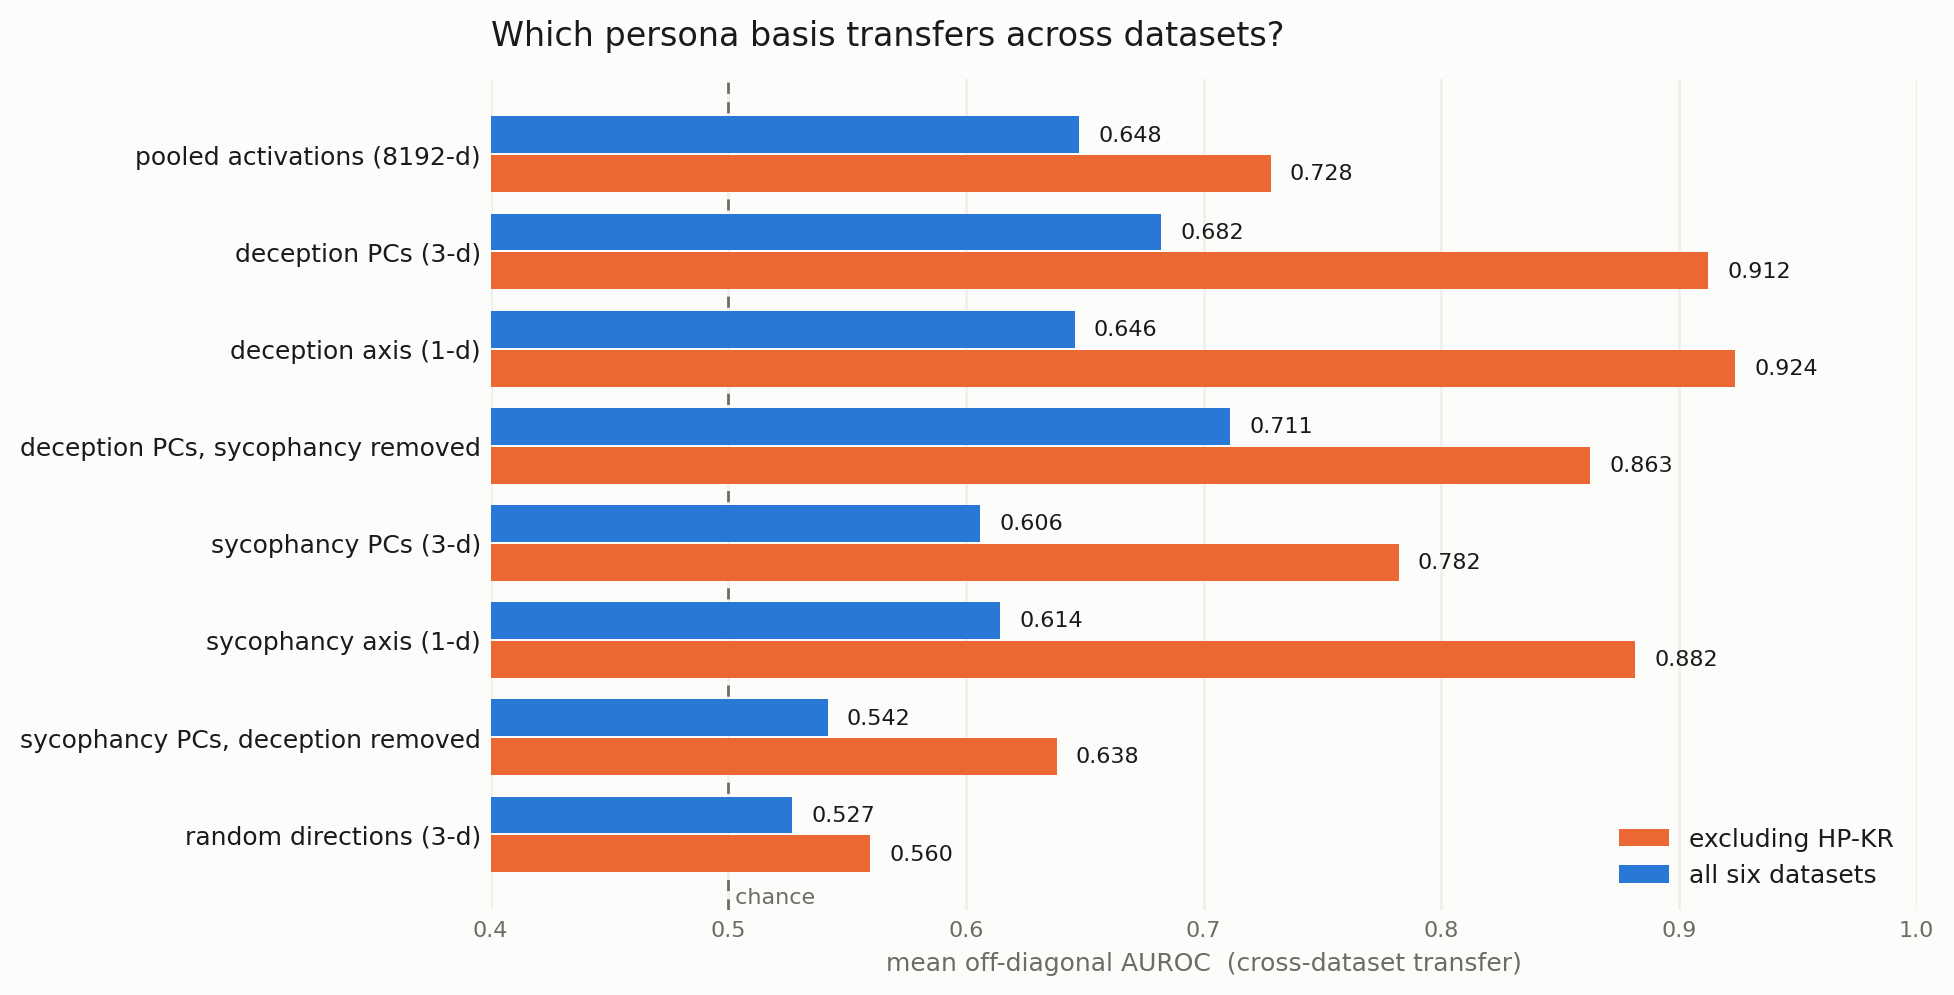
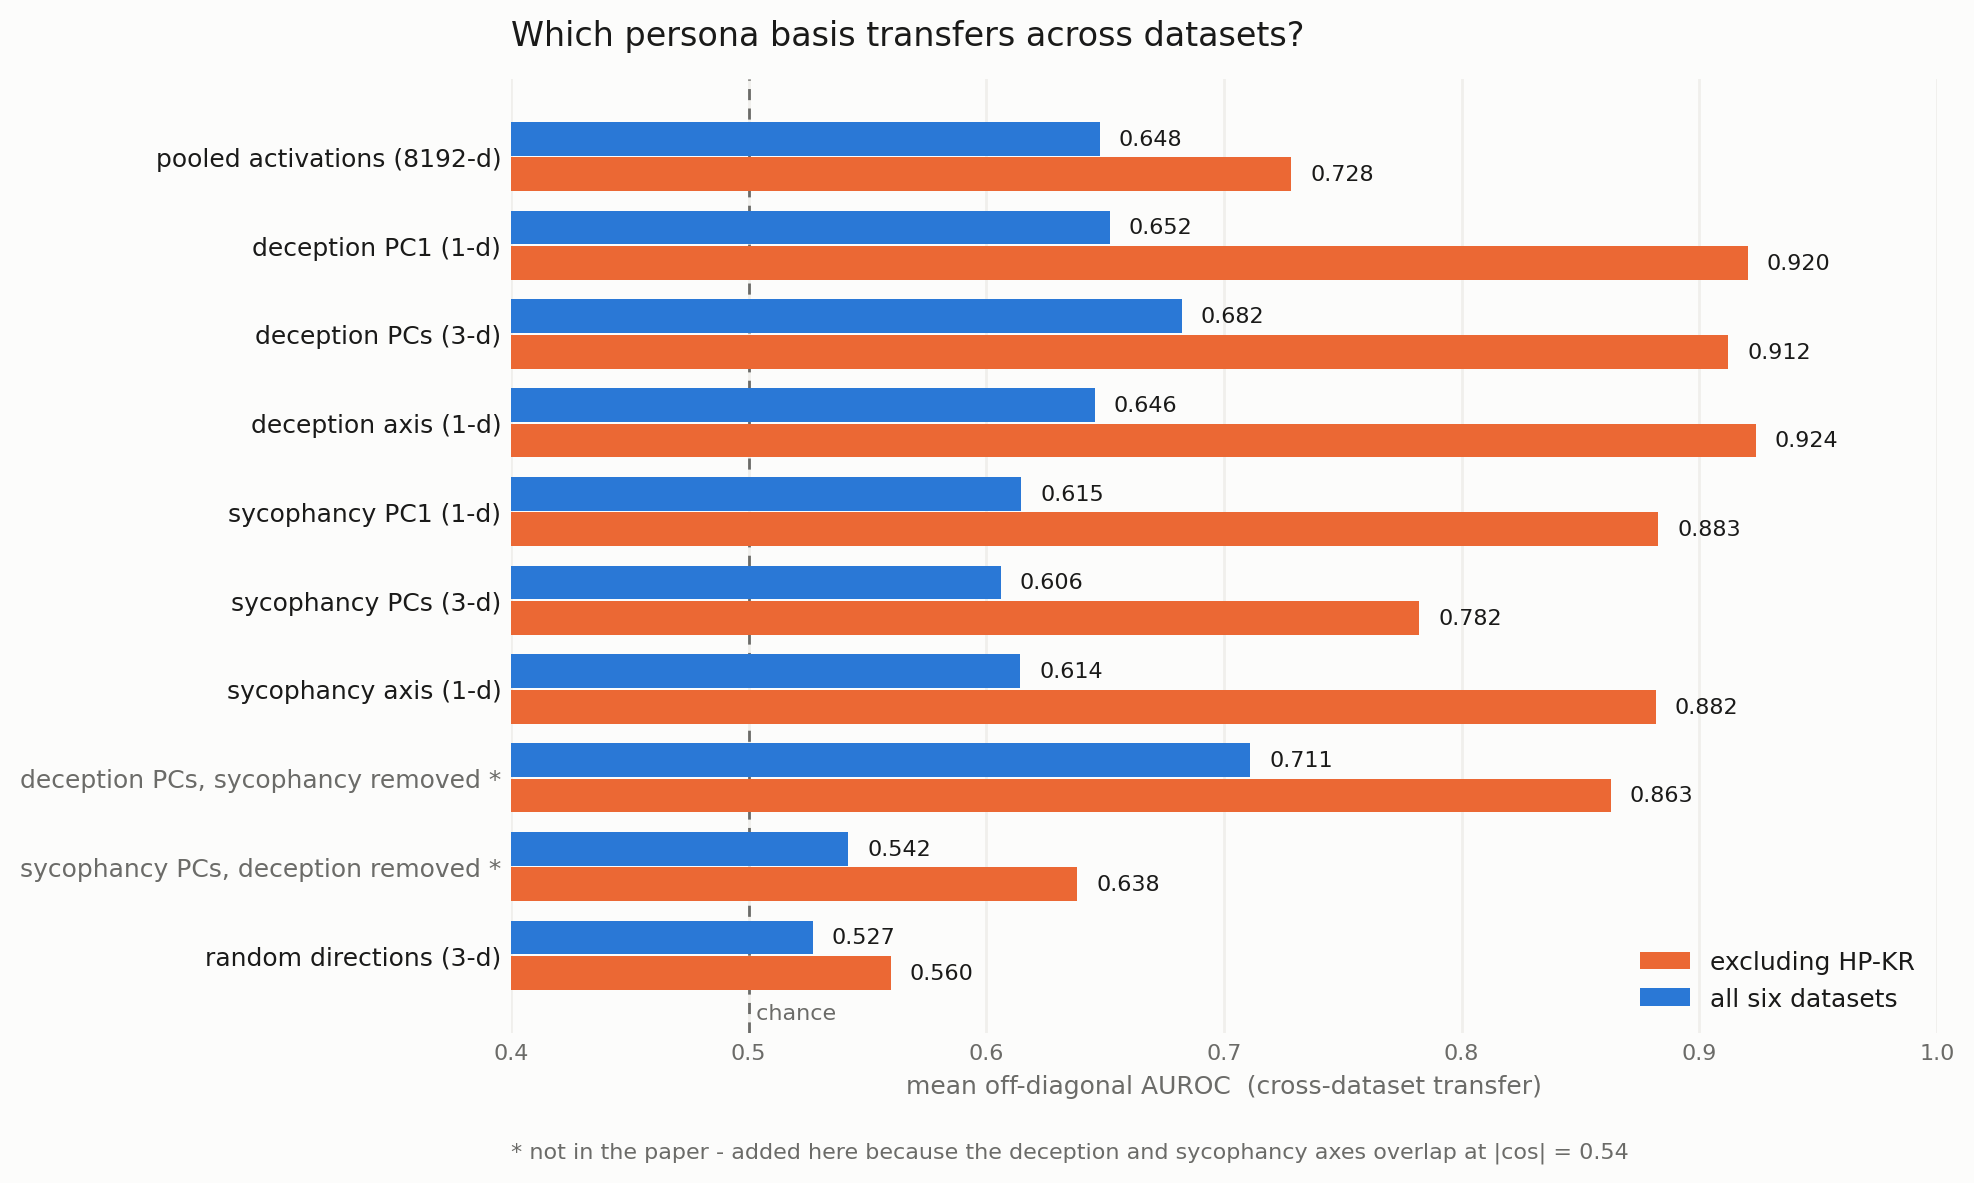
Run the sycophancy arm without orthogonalization, and record paper fidelity
Read arXiv 2605.09391 properly (it had never been fetched -- the method was
taken from an excerpt). Two corrections follow.

The paper does not orthogonalize. Its "residualization" is Eq. 2 alone,
centring by subtracting the mean across personas, and its only use of
"orthogonal" is the PCA property that higher PCs capture variation orthogonal
to lower ones. The *_orth arms are this repo's addition and are now labelled
as such in the summary and demoted in the figure.

The paper also never crosses bases between behaviours: Figure 4 is the
deception axis on deception datasets, Figure 5 the sycophancy axis on
sycophancy datasets. The cross-behaviour run is a control designed here, not
a replication.

Adds the feature sets the paper's figures actually use, which were missing:
PC1 as a probe feature (Fig. 4 reports PC1, not the contrastive axis) for both
behaviours. Deception PC1 reaches 0.9205 off-diagonal excluding HP-KR, just
behind the axis at 0.9237.

Headline without any orthogonalization: persona directions do transfer across
behaviours. Sycophancy PC1, never shown a deception label, reaches 0.883
off-diagonal excluding HP-KR against the 8192-d baseline's 0.728 and random's
0.560. But the matched basis wins every comparison -- deception beats
sycophancy at PC1 (0.652/0.615), k=3 (0.682/0.606) and axis (0.646/0.614).

Other deviations now recorded: the paper uses Llama 3.2 3B at layer 14 over
its own 10 datasets, against Llama-70B layer 20 over Liars' Bench here. Model
[…]

diff --git a/src/probes/deception-detection/deception_detection/scripts/persona_ood_figures.py b/src/probes/deception-detection/deception_detection/scripts/persona_ood_figures.py
@@ -131,14 +131,20 @@ SERIES = ("#2a78d6", "#eb6834")
 # ordered so the comparison reads: reference, deception arms, sycophancy arms, control
 VARIANT_LABELS = [
     ("baseline", "pooled activations (8192-d)"),
+    ("pc1", "deception PC1 (1-d)"),
     ("pc3", "deception PCs (3-d)"),
     ("axis1", "deception axis (1-d)"),
-    ("dec3_orth", "deception PCs, sycophancy removed"),
+    ("syc_pc1", "sycophancy PC1 (1-d)"),
     ("syc3", "sycophancy PCs (3-d)"),
     ("syc_axis1", "sycophancy axis (1-d)"),
-    ("syc3_orth", "sycophancy PCs, deception removed"),
+    ("dec3_orth", "deception PCs, sycophancy removed *"),
+    ("syc3_orth", "sycophancy PCs, deception removed *"),
     ("random3", "random directions (3-d)"),
 ]
+
+# the two starred rows are not in the paper; it never orthogonalises one behaviour's axis out
+# of another's basis, and never applies one behaviour's basis to the other's datasets
+NOT_IN_PAPER = {"dec3_orth", "syc3_orth"}
 
 
 def variants(out_dir: str | Path = OUT_DIR) -> None:
@@ -153,7 +159,7 @@ def variants(out_dir: str | Path = OUT_DIR) -> None:
     y = np.arange(len(rows))
     height = 0.38
     gap = 0.02  # 2px-equivalent surface gap between adjacent fills
-    fig, ax = plt.subplots(figsize=(9.2, 5.4), facecolor=SURFACE)
+    fig, ax = plt.subplots(figsize=(9.2, 6.2), facecolor=SURFACE)
     ax.set_facecolor(SURFACE)
 
     for offset, values, colour, name in (
@@ -169,6 +175,9 @@ def variants(out_dir: str | Path = OUT_DIR) -> None:
     ax.text(0.5, len(rows) - 0.35, " chance", fontsize=8, color=INK_MUTED, va="center")
 
     ax.set_yticks(y, labels, fontsize=9, color=INK)
+    for tick, (_, key) in zip(ax.get_yticklabels(), rows, strict=True):
+        if key in NOT_IN_PAPER:
+            tick.set_color(INK_MUTED)  # visually demote what the paper does not do
     ax.invert_yaxis()
     ax.set_xlim(0.4, 1.0)
     ax.set_xlabel("mean off-diagonal AUROC  (cross-dataset transfer)", fontsize=9, color=INK_MUTED)
@@ -182,6 +191,8 @@ def variants(out_dir: str | Path = OUT_DIR) -> None:
     ax.legend(loc="lower right", frameon=False, fontsize=9, labelcolor=INK)
     ax.set_title("Which persona basis transfers across datasets?", fontsize=12,
                  color=INK, loc="left", pad=12)
+    ax.text(0.0, -0.13, "* not in the paper - added here because the deception and sycophancy "
+            "axes overlap at |cos| = 0.54", transform=ax.transAxes, fontsize=8, color=INK_MUTED)
     fig.savefig(out_dir / "variants.png", dpi=200, bbox_inches="tight", facecolor=SURFACE)
     plt.close(fig)
     print(f"wrote variants.png to {out_dir}")

diff --git a/src/probes/deception-detection/deception_detection/scripts/persona_ood.py b/src/probes/deception-detection/deception_detection/scripts/persona_ood.py
@@ -239,12 +239,18 @@ def run(pooled_dir: str | Path = POOLED_DIR, out_dir: str | Path = OUT_DIR) -> N
         f"deception {dec_orth.shape[0]} of 3"
     )
 
+    # The paper's own feature sets: Figure 4 reports PC1 for deception, Figure 5 k=3 for
+    # sycophancy, and it never orthogonalises. Those arms come first; the *_orth arms below are
+    # this repo's addition, not a replication of anything in the paper.
     variants: dict[str, object] = {
         "baseline": lambda z: z,
+        "pc1": lambda z: geom.project(z, k=1),
         "pc3": lambda z: geom.project(z, k=3),
         "axis1": lambda z: geom.axis_score(z)[:, None],
+        "syc_pc1": lambda z: syc_geom.project(z, k=1),
         "syc3": lambda z: syc_geom.project(z, k=3),
         "syc_axis1": lambda z: syc_geom.axis_score(z)[:, None],
+        # --- not in the paper: added because the two axes overlap at |cos| = 0.54 ---
         "syc3_orth": lambda z: z @ syc_orth.T,
         "dec3_orth": lambda z: z @ dec_orth.T,
     }
@@ -266,8 +272,8 @@ def run(pooled_dir: str | Path = POOLED_DIR, out_dir: str | Path = OUT_DIR) -> N
     hpkr = "harm_refusal_knowledge_report__plain"
     without_hpkr = [n for n in order if n != hpkr]
     dims = {
-        "baseline": hidden, "pc3": 3, "axis1": 1, "random3": 3,
-        "syc3": 3, "syc_axis1": 1,
+        "baseline": hidden, "pc1": 1, "pc3": 3, "axis1": 1, "random3": 3,
+        "syc_pc1": 1, "syc3": 3, "syc_axis1": 1,
         "syc3_orth": syc_orth.shape[0], "dec3_orth": dec_orth.shape[0],
     }
     summary = pd.DataFrame(
@@ -282,7 +288,8 @@ def run(pooled_dir: str | Path = POOLED_DIR, out_dir: str | Path = OUT_DIR) -> N
                 "diagonal_mean": diagonal_mean(matrices[name]),
             }
             for name in (
-                "baseline", "pc3", "axis1", "syc3", "syc_axis1",
+                "baseline", "pc1", "pc3", "axis1",
+                "syc_pc1", "syc3", "syc_axis1",
                 "syc3_orth", "dec3_orth", "random3",
             )
         ]

diff --git a/src/probes/deception-detection/results/persona_ood/summary.md b/src/probes/deception-detection/results/persona_ood/summary.md
@@ -137,70 +137,94 @@ share no training data — RepE contrast pairs, persona role-play vectors, and t
 all place it at the same strongly-inverted value. Whatever drives that inversion is a property of
 the dataset, not of any one probe.
 
-## Cross-behaviour control: the sycophancy basis
+## Fidelity to the paper
 
-Same transfer test, persona basis swapped for the sycophancy contrast (5 sycophancy vs 5
-anti-sycophancy personas, recovered from the sycophancy axis at residual 2.7e-07). This asks
-whether the gain is *deception-specific* persona geometry or persona structure in general —
-a sharper control than random projections, which only rule out dimensionality reduction.
+Read the paper (arXiv 2605.09391, *Do Linear Probes Generalize Better in Persona Coordinates?*)
+after the deception arm was already built. Recording the gaps, because none of the absolute
+numbers here are comparable to its figures:
 
-The two behaviours are **not independent**: |cos(deception axis, sycophancy axis)| = **0.5402**.
-So a raw sycophancy arm would score well through the shared component and prove nothing; the
-orthogonalised arms are what make the comparison readable.
+| | paper | this work |
+|---|---|---|
+| model | Llama 3.2 **3B** | Llama-3.3-**70B** |
+| layer | **14** | **20** |
+| datasets | its own 10 | Liars' Bench (6) |
+| features shown | PC1 (deception, Fig. 4); k=3 (sycophancy, Fig. 5) | both, plus the contrastive axis |
+| cross-behaviour bases | **never** — each axis is used on its own datasets | done here |
+| orthogonalisation | **none** | added here |
+
+Model and layer were not choices: the persona bank and the cached activations are both
+Llama-70B layer 20, so matching the paper was never possible. Only the *direction* of the effect
+transfers, not the magnitudes.
+
+Two clarifications on wording. The paper's "residualization" means Eq. 2 alone — centring by
+subtracting the mean across personas — not removing one behaviour's axis from another's. And its
+only use of "orthogonal" is the PCA property that *"higher PCs capture variation orthogonal to
+lower PCs"*. It does construct **separate** axes per behaviour ("we construct persona axes for
+deception and sycophancy"), which matches the separate 15/10 PCAs used here.
+
+## Cross-behaviour: does a sycophancy basis detect deception?
+
+Not a question the paper asks — Figure 5 applies the sycophancy axis to *sycophancy* datasets.
+This is the control run here. **No orthogonalisation in this table**; every row is a plain
+projection onto a fixed basis.
 
 | features | dim | off-diagonal | excl. HP-KR | diagonal |
 |---|---|---|---|---|
 | baseline (pooled activations) | 8192 | 0.6478 | 0.7282 | 0.9564 |
-| deception PCs | 3 | 0.6823 | 0.9123 | 0.9184 |
-| deception axis | 1 | 0.6457 | 0.9237 | 0.9188 |
-| **deception PCs, sycophancy removed** | 3 | **0.7111** | 0.8627 | 0.9064 |
+| deception PC1 | 1 | 0.6520 | **0.9205** | 0.9082 |
+| deception PCs | 3 | **0.6823** | 0.9123 | 0.9184 |
+| deception axis | 1 | 0.6457 | **0.9237** | 0.9188 |
+| sycophancy PC1 | 1 | 0.6148 | 0.8828 | 0.8915 |
 | sycophancy PCs | 3 | 0.6060 | 0.7821 | 0.9285 |
 | sycophancy axis | 1 | 0.6144 | 0.8816 | 0.8898 |
-| **sycophancy PCs, deception removed** | 3 | **0.5419** | 0.6383 | 0.8862 |
 | random directions | 3 | 0.5269 | 0.5598 | 0.7874 |
 
-**The basis is behaviour-specific.** Sycophancy PCs reach 0.606 against deception PCs' 0.682
-(0.782 vs 0.912 excluding HP-KR). Swapping in an adjacent behaviour costs real performance.
+**Persona directions transfer non-trivially even across behaviours.** Sycophancy PC1, fitted on
+role-play rollouts about flattery and never shown a deception label, reaches **0.883** off-diagonal
+excluding HP-KR — well above the 8192-d raw-activation baseline's 0.728 and far above random's
+0.560. That supports the paper's abstract claim that "persona-derived directions transfer
+non-trivially", and extends it: they transfer across behaviours, not only across datasets.
 
-**And what transfer it has is borrowed.** Removing the deception direction collapses the
-sycophancy arm to **0.542**, against random projections' 0.527. Essentially nothing survives —
-the sycophancy basis was working *through* its 0.54 overlap with deception, not through any
-structure of its own. This is the pre-registered reading that the evidence supports.
+**But the matched basis is consistently better.** Deception beats sycophancy on every comparison —
+PC1 0.652 vs 0.615, k=3 0.682 vs 0.606, axis 0.646 vs 0.614, and excluding HP-KR 0.920 vs 0.883.
+The basis is behaviour-specific; an adjacent behaviour costs real performance.
 
-### The unanticipated result
+**On all six datasets the sycophancy arms fall below the raw baseline** (0.606–0.615 vs 0.648), and
+win only once HP-KR is excluded (0.782–0.883 vs 0.728). HP-KR punishes them harder than it punishes
+the deception arms.
 
-Removing the *sycophancy* axis from the *deception* basis gives the **best off-diagonal score in
-the whole study, 0.7111** — better than the deception PCs it was derived from (0.6823). The shared
-component was not merely redundant; it was actively hurting cross-dataset transfer.
+Note the two behaviours are **not independent**: |cos(deception axis, sycophancy axis)| = **0.5402**,
+so some of the sycophancy transfer is the shared component rather than sycophancy structure. The
+next section isolates that; it is an addition, not a replication.
 
-Per test set, `dec3_orth` minus `pc3`:
+## Isolating the shared component (not in the paper)
 
-| test set | Δ |
-|---|---|
-| HP-KR | **+0.224** |
-| HP-C | +0.064 |
-| IT | +0.055 |
-| RepE | +0.017 |
-| ID | −0.021 |
-| CG | **−0.166** |
+Since the axes overlap at 0.54, each basis was also run with the other's axis projected out.
+`orthogonalize()` keeps rank 3 both ways, so the comparison stays matched.
 
-The two extremes are interpretable and point the same way. **CG is the convincing game** — a
-persuasion task — and the sycophancy axis scores **0.9995 zero-shot** on it, better than the
-deception axis's 0.976. Strip sycophancy out and that signal goes with it. **HP-KR**, whose
-deceptive response is a deferential "I don't know" under pressure, reads as *sycophantic*; removing
-that component moves it from 0.184 toward chance at 0.408.
+| features | dim | off-diagonal | excl. HP-KR |
+|---|---|---|---|
+| sycophancy PCs, deception removed | 3 | **0.5419** | 0.6383 |
+| deception PCs, sycophancy removed | 3 | **0.7111** | 0.8627 |
+| *(random directions)* | 3 | 0.5269 | 0.5598 |
 
-So the aggregate win is real but narrow: `dec3_orth` leads on all six datasets **only because HP-KR
-dominates the aggregate**, and it loses to plain `pc3` once HP-KR is excluded (0.863 vs 0.912). The
-honest reading is not "always remove sycophancy" but that *the deception axis is entangled with
-sycophancy in a way that helps on persuasion tasks and hurts on deference tasks*.
+**The sycophancy transfer was borrowed.** Remove the deception direction and it collapses to 0.542
+against random's 0.527 — essentially nothing of its own survives. The 0.883 above is the shared
+component doing the work.
 
-### Caveat on the control's strength
+**The reverse is the surprise.** Removing the *sycophancy* axis from the *deception* basis gives
+the highest off-diagonal figure in the study, 0.7111 against 0.6823. Per test set it is **+0.224 on
+HP-KR** and **−0.166 on CG**, and both are interpretable: CG is the convincing game, where the
+sycophancy axis alone scores **0.9995 zero-shot**, while HP-KR's deceptive answer is a deferential
+"I don't know" that reads as sycophantic. The aggregate win is narrow — it leads only because HP-KR
+dominates the mean, and loses to plain deception PCs once HP-KR is excluded (0.863 vs 0.912). The
+honest reading is that the deception axis is entangled with sycophancy in a way that helps on
+persuasion tasks and hurts on deference tasks.
 
-The planned sanity check was that the sycophancy axis should be clearly worse than the deception
-axis on RepE, which is a pure honest/deceptive contrast. It is worse, but only slightly — 0.978
-against 0.992. At |cos| = 0.54 the two axes are entangled enough that the raw sycophancy arm is a
-weak control on its own. The orthogonalised arm is the one carrying the conclusion.
+**Caveat on the control's strength.** The planned check was that the sycophancy axis should be
+clearly worse than the deception axis on RepE, a pure honest/deceptive contrast. It is worse, but
+only slightly — 0.978 against 0.992. At |cos| = 0.54 the raw sycophancy arm is a weak control by
+itself; the orthogonalised arm carries the conclusion.
 
 ## Caveats
 
